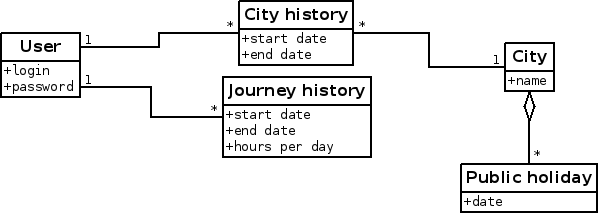
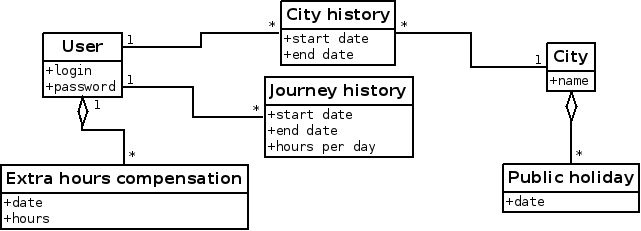
Add Extra hours compensation entity to the Overview section.

Changed region(s): [[0.0, 0.0, 1.0, 1.0]]

diff --git a/docs/user/overview.rst b/docs/user/overview.rst
@@ -69,6 +69,10 @@ purpose:
   work per working day between two dates. PhpReport considers there are five
   working days per week, from Monday to Friday, excepting public holidays.
 
+* Extra hour compensations entity represents a moment in time where the
+  calculation of extra hours for a particular user is reset to a new figure,
+  ignoring all the previous history.
+
 .. figure:: i/working-day-classes.png
    :scale: 50
 
@@ -89,6 +93,8 @@ Relations between these entities:
   holiday entity can only be related with one city, so if the same date is a
   holiday in different cities there must be two entities with the same date but
   different relations.
+
+* A user can be associated with any number of extra hours compensation entities.
 
 Data model for project cost management
 ======================================
